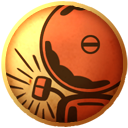
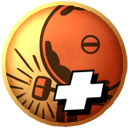
Agregue los botones en el hud

Changed region(s): [[0.4062, 0.5312, 0.875, 0.9062]]

diff --git a/Burgle Bros/View/Source Files/Observers/ActionObserver.cpp b/Burgle Bros/View/Source Files/Observers/ActionObserver.cpp
@@ -3,24 +3,41 @@
 
 ActionObserver::ActionObserver(Player* p, int separation, int max, Container* pa)
 {
+	int H = 300;
 	player = p;
 	this->max = max;
 	this->separation = separation;
 	parent = pa;
-	actionBox = new Container(200, separation*(max-1)+200 * max);
-	actionBox->setScale(pa->getWidth()*1.0 / 3.0/actionBox->getWidth());
+	actionBox = new Container(H, separation*(max-1)+H * max);
+	actionBox->setScale(parent->getHeight()*0.40 / actionBox->getHeight());
 	actions = {	{string("MOVE"),Image(string("../View/Images/Actions/MOVE.png"))},
 				{string("PEEK"),Image(string("../View/Images/Actions/PEEK.png"))},
 				{string("ADD_TOKEN"),Image(string("../View/Images/Actions/ADD_TOKEN.png"))},
 				{string("PLACE_CROW"),Image(string("../View/Images/Actions/PLACE_CROW.png"))},
-				{ string("CREATE_ALARM"),Image(string("../View/Images/Actions/CREATE_ALARM.png")) }
+				{ string("CREATE_ALARM"),Image(string("../View/Images/Actions/CREATE_ALARM.png")) },
+				{string("SPY_PATROL"),Image(string("../View/Images/Actions/SPY_PATROL.png"))},
+				{ string("PICK_UP_LOOT"),Image(string("../View/Images/Actions/PICK_UP_LOOT.png")) }
 	};
+	buttons = { {string("OFFER_LOOT"),Button(string("OFFER_LOOT"),vector<string>(1,string("../View/Images/Buttons/OFFER_LOOT.png")))},
+				{ string("PASS"),Button(string("PASS"),vector<string>(1,string("../View/Images/Buttons/PASS.png"))) },
+				{ string("REQUEST_LOOT"),Button(string("REQUEST_LOOT"),vector<string>(1,string("../View/Images/Buttons/REQUEST_LOOT.png"))) },
+				{ string("THROW_DICE"),Button(string("THROW_DICE"),vector<string>(1,string("../View/Images/Buttons/THROW_DICE.png"))) }
+	};
+	int X=1600, Y=150;
+	buttons[string("OFFER_LOOT")].setPosition(Y, X);
+	parent->addObject(&buttons[string("OFFER_LOOT")]);
+	buttons[string("PASS")].setPosition(Y+50, X);
+	parent->addObject(&buttons[string("PASS")]);
+	buttons[string("REQUEST_LOOT")].setPosition(Y+100, X);
+	parent->addObject(&buttons[string("REQUEST_LOOT")]);
+	buttons[string("THROW_DICE")].setPosition( Y+150, X);
+	parent->addObject(&buttons[string("THROW_DICE")]);
 	for (auto& act : actions)
 	{
-		act.second.setScale(200.0 / act.second.getHeight());
-		act.second.setBorderVisible(true);
+		act.second.setScale(double(actionBox->getHeight())/ act.second.getHeight());
+		act.second.setBorderVisible(false);
 	}
-	actionBox->setPosition(0.9*parent->getHeight()-actionBox->getScale()*actionBox->getHeight(), double(pa->getWidth()) / 3.0);
+	actionBox->setPosition(0.5*parent->getHeight(), double(pa->getWidth()) / 4.0);
 	pa->addObject(actionBox);
 }
 void
@@ -32,7 +49,7 @@ ActionObserver::update()
 	{
 		if (added < max)
 		{
-			if (action == "MOVE" || action == "PEEK" || action == "ADD_TOKEN" || action == "PLACE_CROW" || action == "CREATE_ALARM")
+			if(actions.find(action)!=actions.end())
 			{
 				actionBox->addObject(&actions[action]);
 				actions[action].setPosition(0, x);

diff --git a/Burgle Bros/View/Source Files/Button.cpp b/Burgle Bros/View/Source Files/Button.cpp
@@ -14,30 +14,17 @@ Button::draw(Bitmap* target)
 		return;
 	}
 	DEBUG_MSG_V("Drawing button " << name);
-	int pressed = 2;
-	if (bitmaps.size() == 2)
-		pressed = 1;
-	else if (bitmaps.size() == 1)
-		pressed = 0;
+	int pressed = bitmaps.size() - 1;
 	if (clicked == true)
-		if(pressed>=1)
-			bitmaps[pressed]->drawScaled(
-				 0, 0
-				, w, h
-				, x, y
-				, scale* w, scale* h
-				, 0
-			);
+	{
+		if (pressed >= 1)
+			bitmaps[pressed]->drawScaled(0, 0, w, h, x, y, scale* w, scale* h, 0);
 		else
-			bitmaps[0]->drawTintedScaled(PRESSED_TONE
-				, 0, 0
-				, w, h
-				, x, y
-				, scale* w, scale* h
-				, 0
-			);
+			bitmaps[0]->drawTintedScaled(PRESSED_TONE, 0, 0, w, h, x, y, scale* w, scale*h, 0);
+	}
 	else if (hover == true)
-		if(pressed==1)
+	{
+		if (pressed <= 1)
 			bitmaps[0]->drawTintedScaled(HOVER_TONE
 				, 0, 0
 				, w, h
@@ -47,12 +34,13 @@ Button::draw(Bitmap* target)
 			);
 		else
 			bitmaps[1]->drawScaled(
-				 0, 0
+				0, 0
 				, w, h
 				, x, y
 				, scale* w, scale* h
 				, 0
 			);
+	}
 	else
 		bitmaps[0]->drawScaled(
 			 0, 0

diff --git a/Burgle Bros/View/Source Files/Observers/LocalPlayerObserver.cpp b/Burgle Bros/View/Source Files/Observers/LocalPlayerObserver.cpp
@@ -58,7 +58,7 @@ LocalPlayerObserver::update() {
 			b[i].getFloorGrid()->addObject(token);
 			pair<int, int> target(pos.row*b[pos.floor].getFloorGrid()->getWidth() / 4 + 0.9 * b[pos.floor].getFloorGrid()->getWidth() / 4 - token->getScale()*token->getHeight(), pos.col*b[pos.floor].getFloorGrid()->getWidth() / 4 + 0.45* b[pos.floor].getFloorGrid()->getWidth() / 4 - token->getScale() / 2.0*token->getWidth());
 			if(token->hasAnimation() ==false ||  ((MoveAnimation*)token->getAnimation())->getTarget()!=target )
-				token->addAnimation(new MoveAnimation(token->getPos(), target, 0.4));
+				token->addAnimation(new MoveAnimation(token->getPos(), target, 0.2));
 		}
 	}
 	actions->update();

diff --git a/Burgle Bros/View/Source Files/Observers/RemotePlayerObserver.cpp b/Burgle Bros/View/Source Files/Observers/RemotePlayerObserver.cpp
@@ -51,7 +51,7 @@ RemotePlayerObserver::update()
 			b[i].getFloorGrid()->addObject(token);
 			pair<int, int> target(pos.row*b[pos.floor].getFloorGrid()->getWidth() / 4 + 0.9 * b[pos.floor].getFloorGrid()->getWidth() / 4 - token->getScale()*token->getHeight(), pos.col*b[pos.floor].getFloorGrid()->getWidth() / 4 + 0.45* b[pos.floor].getFloorGrid()->getWidth() / 4 - token->getScale() / 2.0*token->getWidth());
 			if (token->hasAnimation() == false || ((MoveAnimation*)token->getAnimation())->getTarget() != target)
-				token->addAnimation(new MoveAnimation(token->getPos(), target, 0.4));
+				token->addAnimation(new MoveAnimation(token->getPos(), target, 0.2));
 		}
 	}
 }

diff --git a/Burgle Bros/View/Source Files/main.cpp b/Burgle Bros/View/Source Files/main.cpp
@@ -32,7 +32,7 @@ int main(void)
 		game.getPlayer2()->setPosition(game.getBoard()[1][0][0]);
 		game.getPlayer2()->setCharacter(RAVEN);
 		game.getPlayer2()->setActionTokens(100000);
-		GameObserver view(&game, int(720));
+		GameObserver view(&game);
 		
 		string in;
 		Timer time(1.0 / 30.0);
@@ -47,9 +47,8 @@ int main(void)
 
 				if (isCoord(in))
 				{
-					//board[in[3] - '0'][in[0] - 'A'][in[1] - '1']->flip();
 					game.getPlayer1()->move(Coord(in[3] - '0', in[0] - 'A', in[1] - '1'));
-					(game.getBoard()[in[3] - '0'].moveGuard());
+					game.getBoard()[in[3] - '0'].moveGuard();
 					
 				}
 				else if (in.substr(0, 5) == "PC RF")

diff --git a/Burgle Bros/View/Source Files/Observers/GameObserver.cpp b/Burgle Bros/View/Source Files/Observers/GameObserver.cpp
@@ -1,9 +1,14 @@
 #include "../../Header Files/Observers/GameObserver.h"
 
-GameObserver::GameObserver(GameModel* g, int sHeight)
+GameObserver::GameObserver(GameModel* g)
 {
+	ALLEGRO_MONITOR_INFO info;
+	al_get_monitor_info(0, &info);
+	int sHeight = info.y2 - info.y1-40;
+	//int sHeight = 1000;
 	game = g;
 	screen= new Screen(sHeight, sHeight * 1280.0 / 720.0, string("../View/Images/BackGround.jpg"), false);
+	sHeight = screen->getHeight();
 	screen->backgroundProperties(0, 0, double(sHeight) / 1080.0);
 	cont= new Container(sHeight, sHeight * 1280.0 / 720.0);
 	board= new BoardObserver(&game->getBoard(), cont);

diff --git a/Burgle Bros/View/Source Files/Screen.cpp b/Burgle Bros/View/Source Files/Screen.cpp
@@ -9,6 +9,7 @@ Screen::Screen(int h, int w, string& pathToBackground,bool b)
 		al_get_display_mode(al_get_num_display_modes() - 1, &disp_data);
 		display = new Display(disp_data.width, disp_data.height);
 		display->setFlagEnabled(ALLEGRO_FULLSCREEN_WINDOW,true);
+		display->setWindowTitle("EDA BURGLE");
 		this->w = disp_data.width;
 		this->h = disp_data.height;
 	}

diff --git a/Burgle Bros/View/Header Files/Observers/ActionObserver.h b/Burgle Bros/View/Header Files/Observers/ActionObserver.h
@@ -3,6 +3,7 @@
 #include "../Container.h"
 #include "../../../Model/Header Files/Player.h"
 #include "../Image.h"
+#include "../Button.h"
 #include "../../../Model/Header Files/Configs.h"
 
 class ActionObserver :public Observer {
@@ -26,5 +27,6 @@ private:
 	Player* player;
 	int max,separation;
 	map<string, Image> actions;
+	map<string, Button> buttons;
 
 };

diff --git a/Burgle Bros/View/Header Files/Button.h b/Burgle Bros/View/Header Files/Button.h
@@ -4,6 +4,7 @@
 class Button :public Object
 {
 public:
+	Button() {};
 	/** This constructor sets the name for the button and the given paths are set in the given order,
 	@param files files[0] - Default Image, files[1] - Hover or pressed if only two paths are give, files[2] - Pressed
 	@param n Name for the button

diff --git a/Burgle Bros/View/Source Files/Observers/GuardObserver.cpp b/Burgle Bros/View/Source Files/Observers/GuardObserver.cpp
@@ -38,5 +38,5 @@ GuardObserver::update()
 	if (guardIm->getPos().first>=parent->getWidth())
 		guardIm->setPosition(finish.first, finish.second);
 	else
-		guardIm->addAnimation(new MoveAnimation(init, finish, 0.4));
+		guardIm->addAnimation(new MoveAnimation(init, finish, 0.2));
 }

diff --git a/Burgle Bros/Model/Header Files/Configs.h b/Burgle Bros/Model/Header Files/Configs.h
@@ -49,7 +49,7 @@ using namespace std;
 
 
 #define HOVER_TONE al_map_rgba(255,255,255,200)
-#define PRESSED_TONE al_map_rgba(0,0,0,200)
+#define PRESSED_TONE al_map_rgba(100,100,100,200)
 #define HOVER_TONE al_map_rgba(255,255,255,200)
 
 

diff --git a/Burgle Bros/View/Header Files/Observers/GameObserver.h b/Burgle Bros/View/Header Files/Observers/GameObserver.h
@@ -9,7 +9,7 @@
 
 class GameObserver :public Observer {
 public:
-	GameObserver(GameModel* g,int sHeight);
+	GameObserver(GameModel* g);
 	void update();
 	bool isEmpty() { return events.isEmpty(); };
 	string input();
